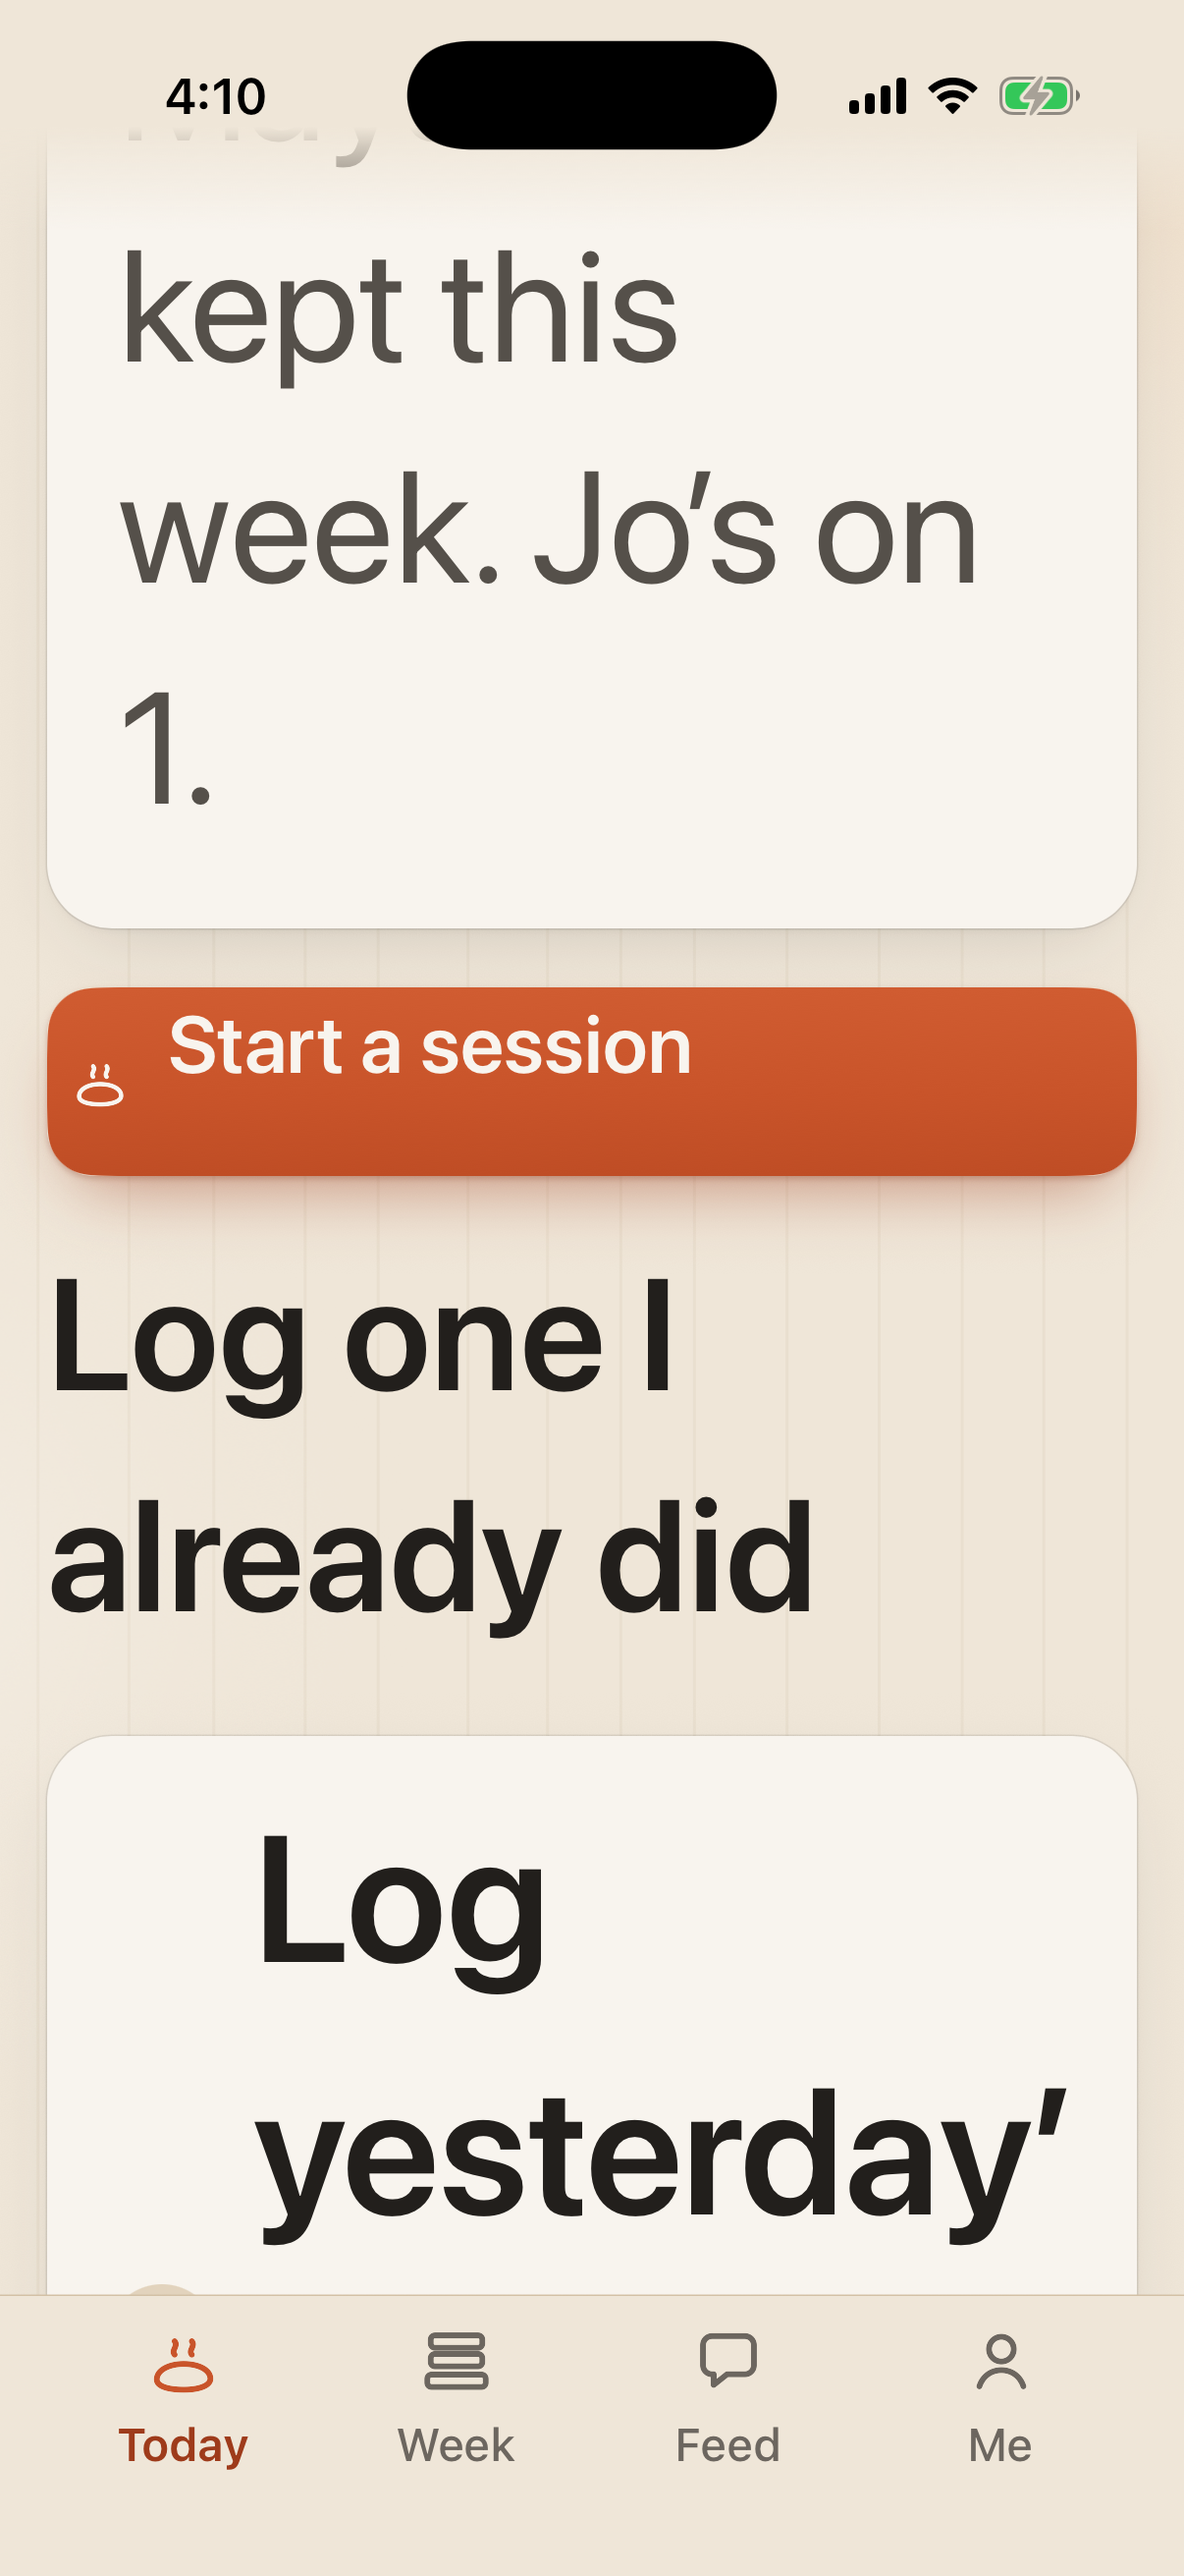
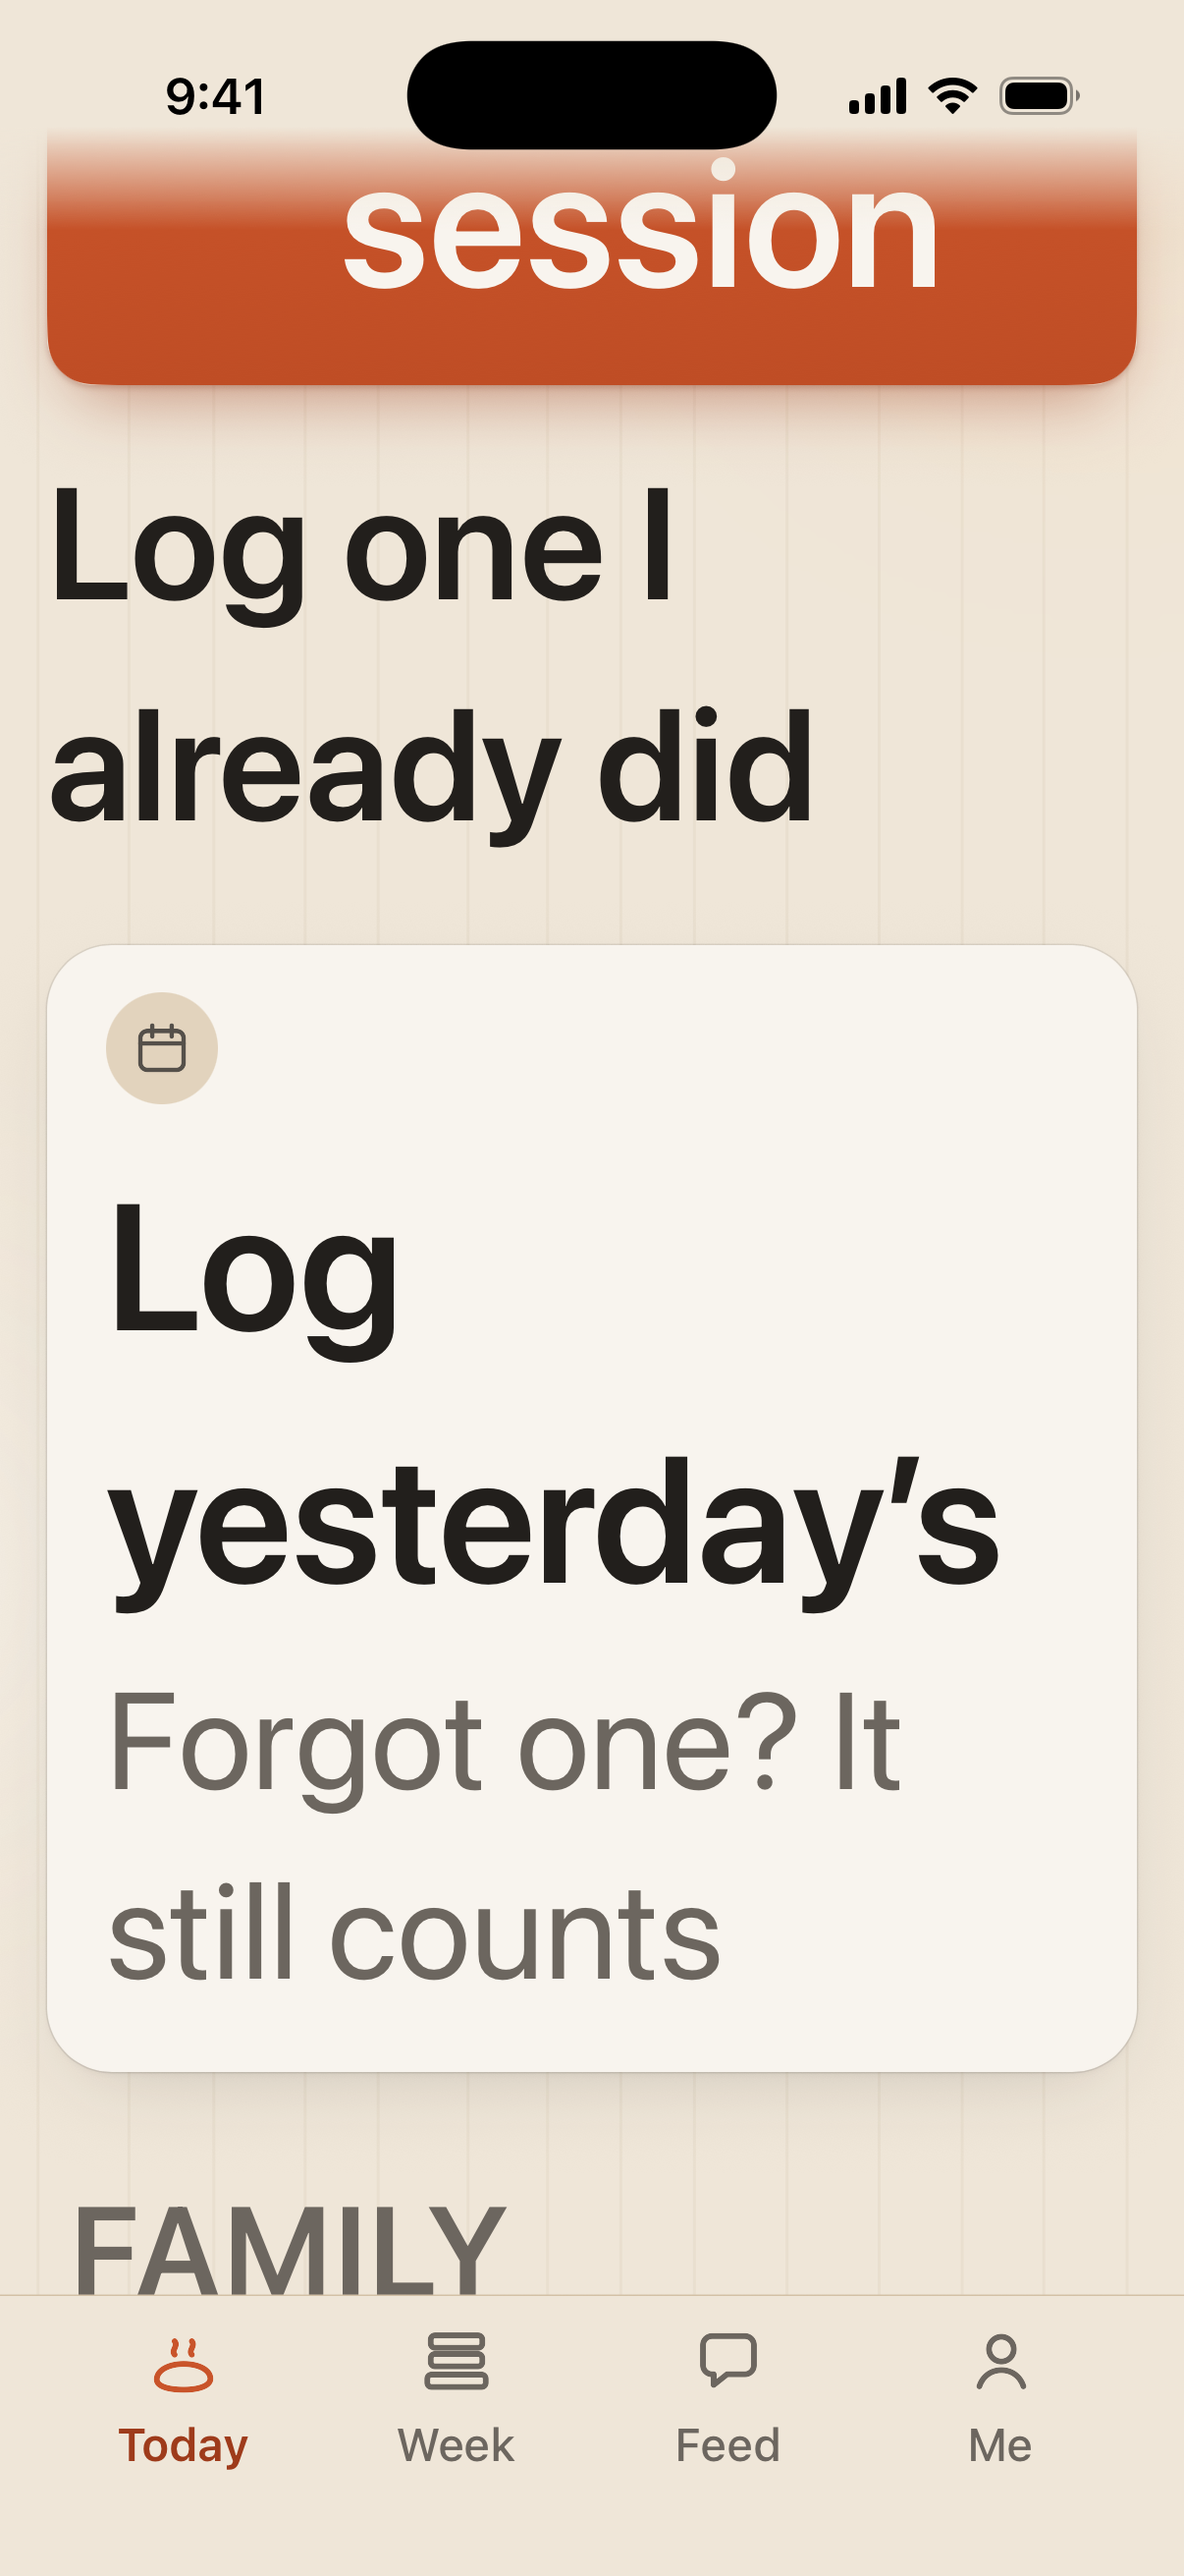
Stills: Today and Family members at AX5 with the stacked rows

diff --git a/design/screenshots/saunafam/INDEX.md b/design/screenshots/saunafam/INDEX.md
@@ -28,7 +28,7 @@ Captured with the dev-only capture driver (`src/dev/DevDriver.tsx`, Metro with
 - `today-error.png`: Today, couldn't load with nothing cached: Try again
 - `today-last-one.png`: Today before the save that keeps the family's week (Maya and Jo kept, you on 2 of 3)
 - `today-week-kept.png`: Today after that save: the slat filled with ember, "Week kept, together"
-- `today-dynamic-type.png`, `today-dynamic-type-2.png`, `today-dynamic-type-3.png`: Today at the largest accessibility text size (AX5), top, middle and family list (`-3` retaken after the row change)
+- `today-dynamic-type.png`, `today-dynamic-type-2.png`, `today-dynamic-type-3.png`: Today at the largest accessibility text size (AX5), top, middle and family list (`-3` retaken after the row change; `-2` retaken on 21 October with the row's icon above "Log yesterday's", which no longer breaks inside the word)
 
 ### Week
 
@@ -137,6 +137,7 @@ Captured with the dev-only capture driver (`src/dev/DevDriver.tsx`, Metro with
 - `settings-apple-health-on.png`: Apple Health, on (before M11 wires the write)
 - `settings-family-members.png`: Family members, founder
 - `settings-family-members-remove.png`: Remove Maya? confirm
+- `family-members-dynamic-type.png`: Family members at AX5, each avatar above the name
 - `settings-streak-rules.png`: Streak rules, a Sunday-start family
 - `settings-wall-plus-enabled.png`: The wall, plus_enabled, birch, locked woods
 - `settings-wall-try-on.png`: The wall, trying on cedar, "Keep this wood with Plus"
